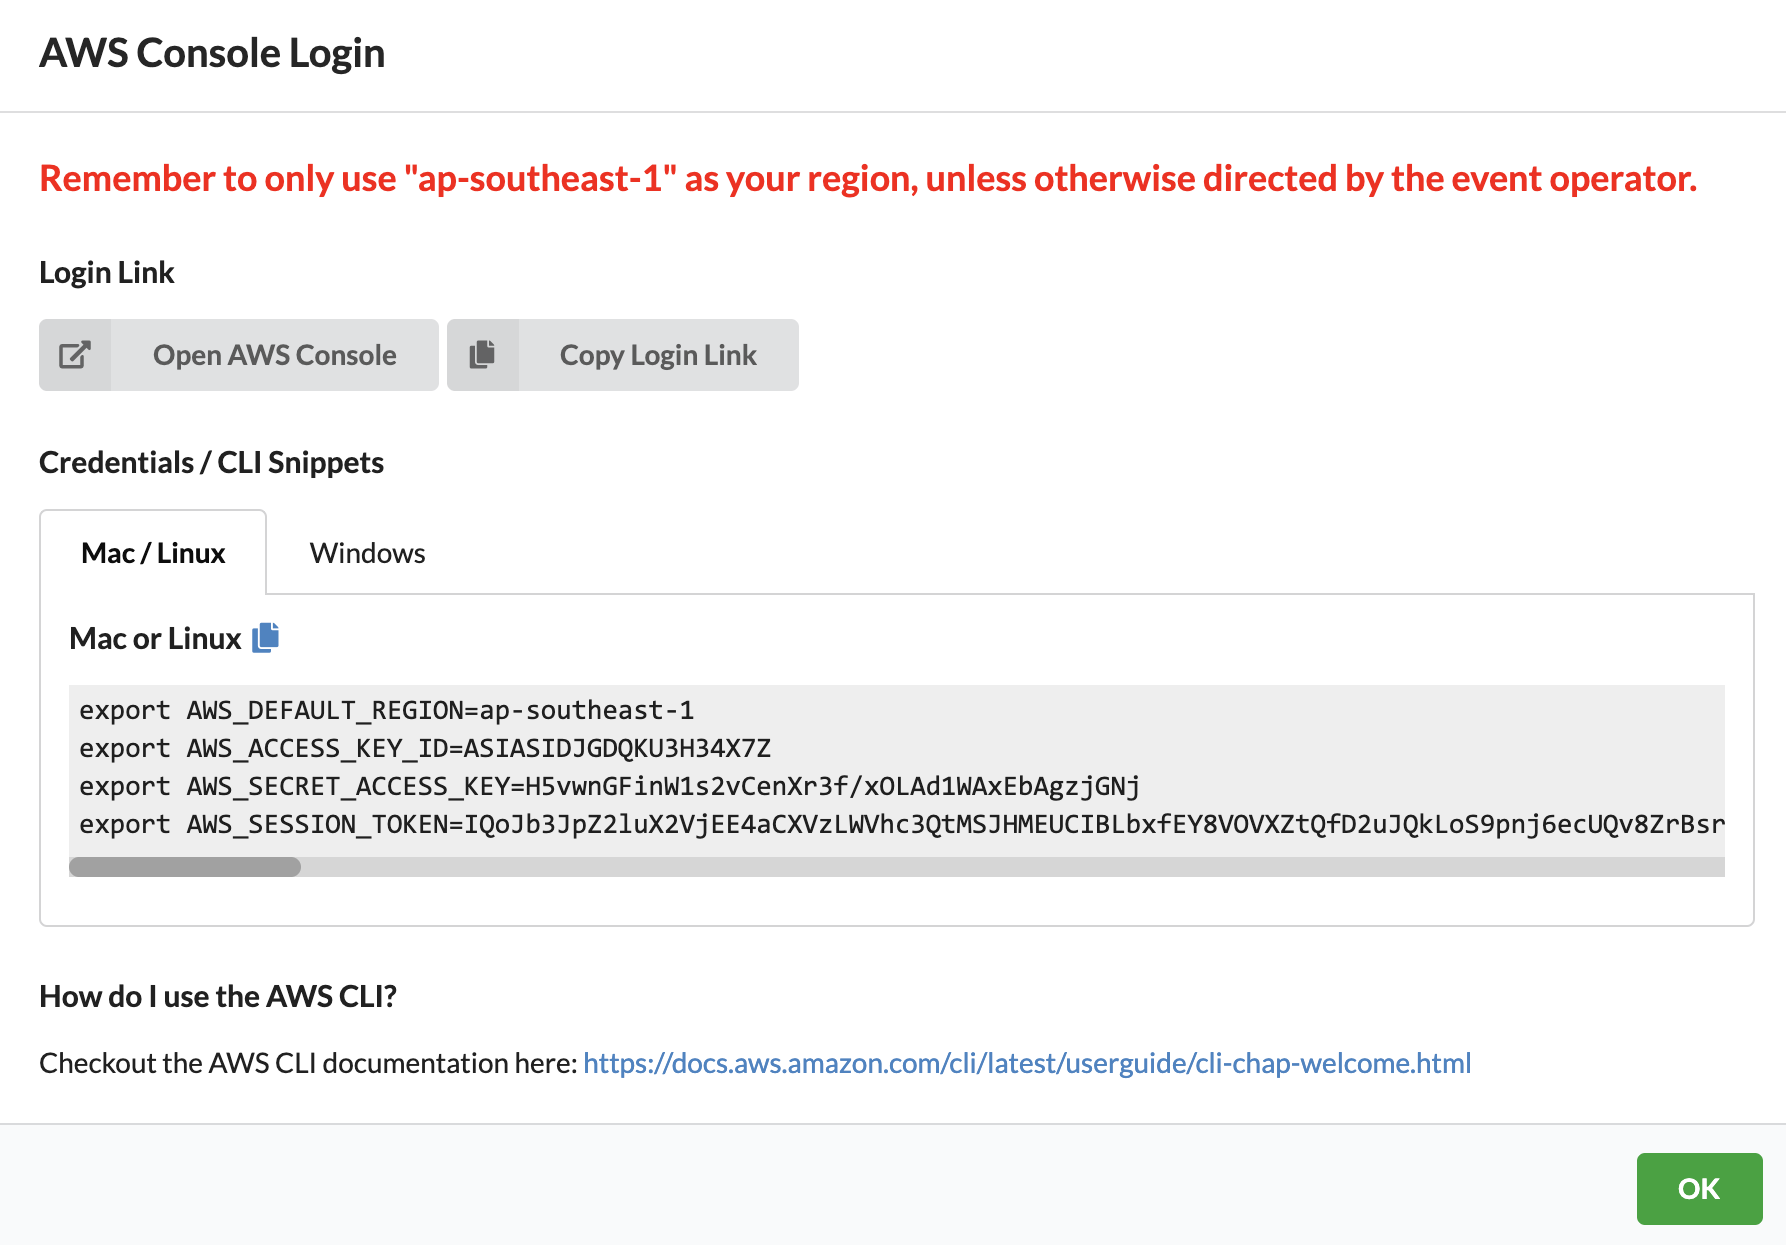
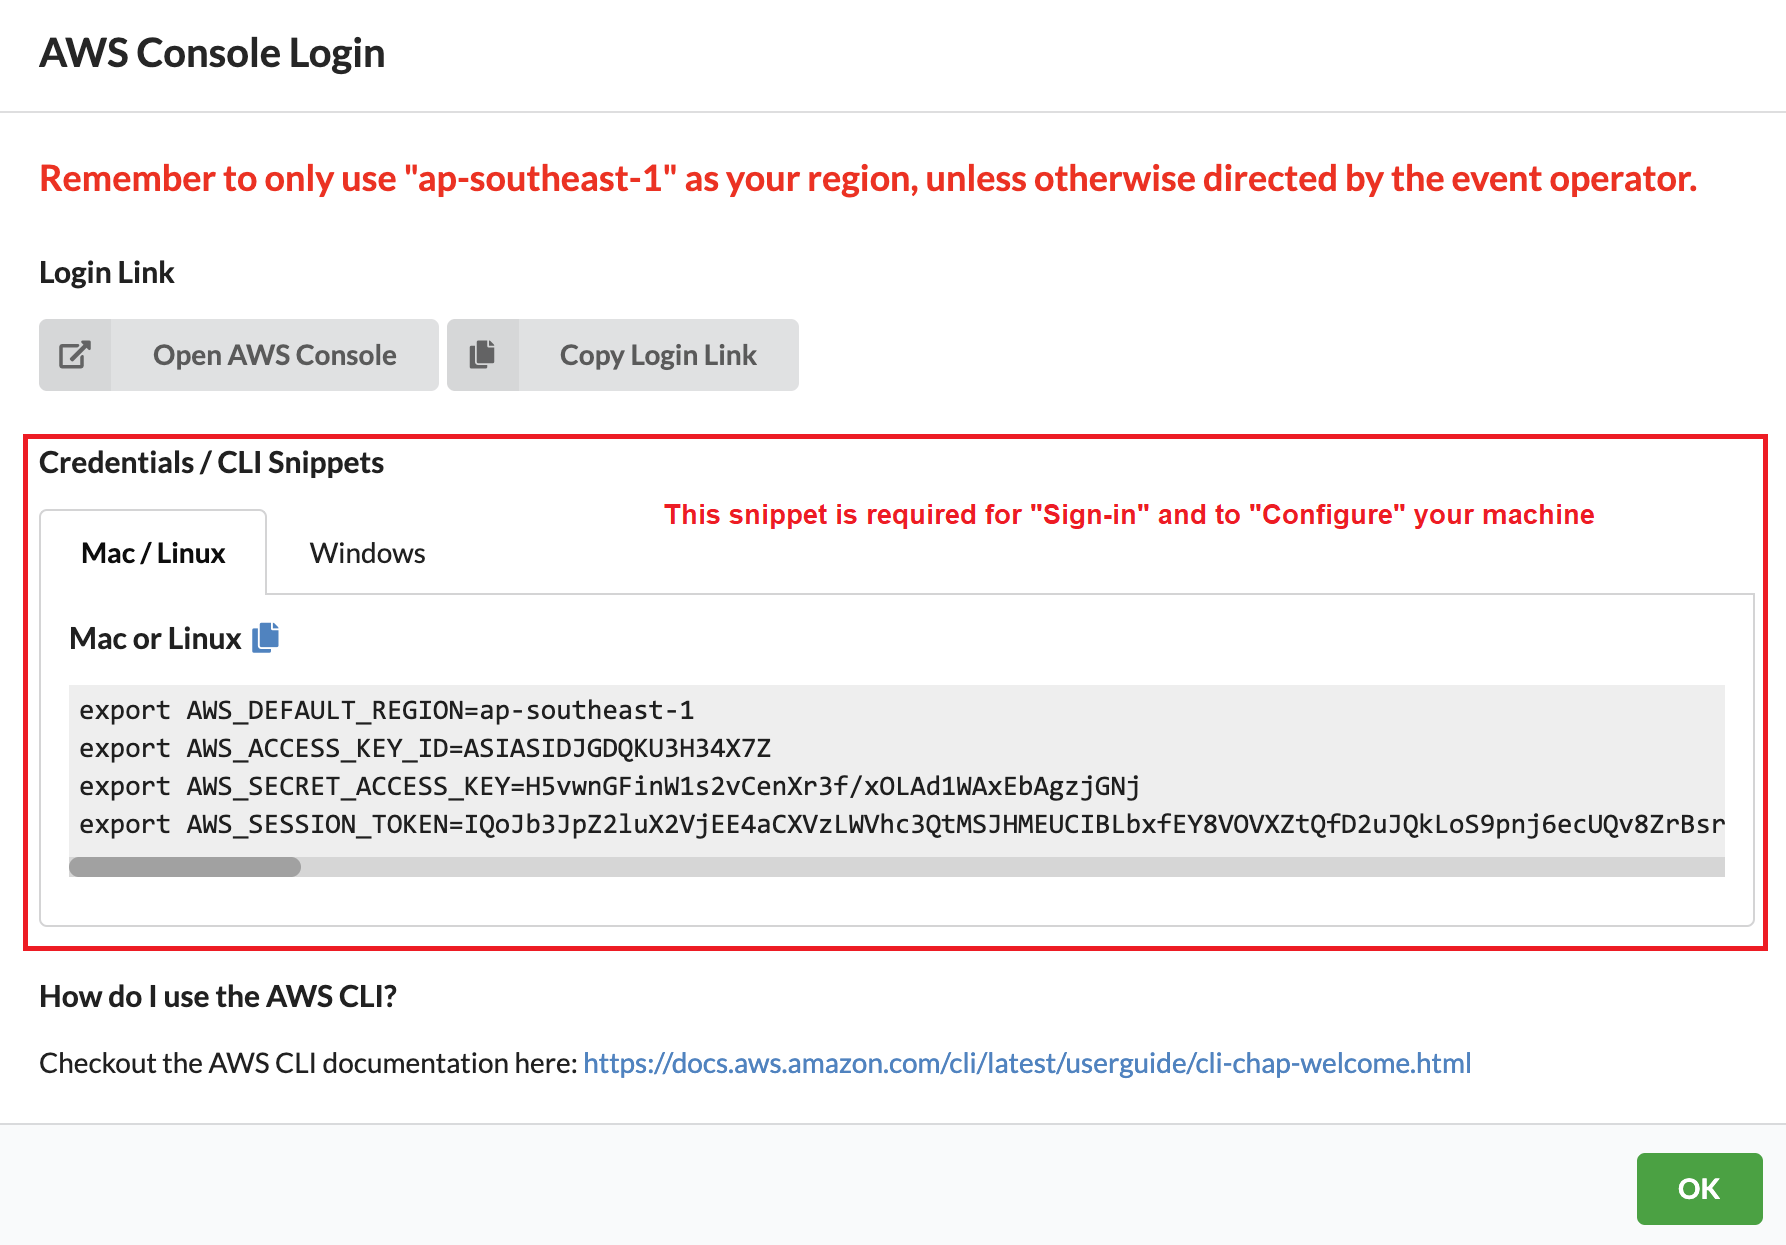
Edits/ Updates to website Sections I to V

Changed region(s): [[0.0, 0.3357, 1.0, 0.7631], [0.3695, 0.3968, 0.8931, 0.4273]]

diff --git a/websites/gis-aws/content/15-AWSCLI-intro/02-IntroToAWSCli.md b/websites/gis-aws/content/15-AWSCLI-intro/02-IntroToAWSCli.md
@@ -41,57 +41,3 @@ The above `describe-instances` and `describe-key-pairs` commands will likely fai
   
 As we have not yet configured the instance with the AWS account's credentials, the **~/.aws/** folder will not be available. Now let us go ahead with **aws configure**.
 
----   
-***AWS CONFIGURE (with Event Engine)***
-  
-_Important: if you are using Event Engine for this workshop, you can copy the code snippet with the temporary account's credentials from the Console page and paste it in your command line instead. This will be analogous to going through the manual setting up described in points 1-4 below (you can skip to point 5 directly)._
-
-![EE console](/images/hpc-aws-parallelcluster-workshop/EE_console_login.png)    
-
---- 
-***AWS CONFIGURE (GENERAL USE)***
-
-1.	Run the **aws configure** command
-
-```bash
-aws configure
-```
-
-2.	Enter your account's **aws access key id**
-
-```bash
-aws_access_key_id=[Access Key ID]
-```
-
-3.	Enter your account's **aws secret access key**
-
-```bash
-aws_secret_access_key=[Secret Access Key]
-```
-
-4.	Enter a **default region name**. For the purposes of this workshop, use _ap-southeast-1_ (the region for Singapore).
-
-```bash
-Default region name=ap-southeast-1
-```
-
-Hit enter to accept the defaults for **output format**
-
-
-5.	Let us rerun the ec2 **describe-instances** command again and check the output.
-
-```bash
-aws ec2 describe-instances
-```
-
-This gives a description of all the EC2 instances in the account for the specified region.
-
-6.	In addition, take a look at the key-pairs we have for the selected region.
-
-```bash
-aws ec2 describe-key-pairs
-```
-
-**Note:** This is a very brief introduction to AWS CLI. With great power comes great responsibility, so familiarise yourself and practice before using it to automate instances. Your wallet will thank you.  
-
-Next, you will use the AWS CLI to interact with Amazon S3.

diff --git a/websites/gis-aws/content/02-setup-EC2/02-eventengine.md b/websites/gis-aws/content/02-setup-EC2/02-eventengine.md
@@ -6,20 +6,16 @@ weight = 45
 tags = ["tutorial", "aws console", "ec2", "event engine"]
 +++
 
-You may access the AWS Management Console through Event Engine or through a traditional sign-in. This page will guide you through signing in via the Event Engine.  
-  
 Your instructor will provide you with a special team hash login. 
 Click the team hash login link. An email address will be requested for an OTP. This will help you access your temporary AWS account. When your sign in is successful, you will be taken to the **Team Dashboard**. 
   
 ![EE Team Dashboard](/images/hpc-aws-parallelcluster-workshop/EE_Dashboard.png)  
     
-Next, click on the **AWS Console** button.  
+Next, click on the **AWS Console** button.      
 
-This page is quite important.  
-  
-First, note the region that is specified in red. This will be the location of all your resources, and is the default region for this exercise.  
-  
-Next, note the credentials seen in the box titled **Credentials / CLI Snippets**. This will be important later when configuring your machine. Depending on your OS, click the correct tab and note the contents. 
+Note the following:    
+1. The region that is specified in red will be the location of all your resources, and is the default region for this exercise.  
+2. The credentials seen in the box titled **Credentials / CLI Snippets**. This will be important later when configuring your machine. Depending on your OS, click the correct tab and note the contents.  
   
 ![EE console](/images/hpc-aws-parallelcluster-workshop/EE_console_login.png)  
 If you ever need to access the **Team Dashboard** again during this training, click on the team hash login link again.  

diff --git a/websites/gis-aws/content/15-AWSCLI-intro/02-AWSconGEN.md b/websites/gis-aws/content/15-AWSCLI-intro/02-AWSconGEN.md
@@ -1,0 +1,52 @@
++++
+title = "AWS Configure - General Use"
+date = 2019-09-18T10:46:30-04:00
+draft = false
+weight = 60
+tags = ["tutorial", "Prerequisite", "ec2"]
++++
+
+1.	Run the **aws configure** command
+
+```bash
+aws configure
+```
+
+2.	Enter your account's **aws access key id**
+
+```bash
+aws_access_key_id=[Access Key ID]
+```
+
+3.	Enter your account's **aws secret access key**
+
+```bash
+aws_secret_access_key=[Secret Access Key]
+```
+
+4.	Enter a **default region name**. For the purposes of this workshop, use _ap-southeast-1_ (the region for Singapore).
+
+```bash
+Default region name=ap-southeast-1
+```
+
+Hit enter to accept the defaults for **output format**
+
+
+5.	Let us rerun the ec2 **describe-instances** command again and check the output.
+
+```bash
+aws ec2 describe-instances
+```
+
+This gives a description of all the EC2 instances in the account for the specified region.
+
+6.	In addition, take a look at the key-pairs we have for the selected region.
+
+```bash
+aws ec2 describe-key-pairs
+```
+
+**Note:** This is a very brief introduction to AWS CLI. With great power comes great responsibility, so familiarise yourself and practice before using it to automate instances. Your wallet will thank you.  
+
+Next, you will use the AWS CLI to interact with Amazon S3.

diff --git a/websites/gis-aws/content/02-setup-EC2/05-Create_keypair.md b/websites/gis-aws/content/02-setup-EC2/05-Create_keypair.md
@@ -35,6 +35,6 @@ In this section of the lab you will create a Linux instance and login to it to r
   
 ![ConsoleEC2AddTags](/images/hpc-aws-parallelcluster-workshop/ConsoleEC2AddTags.png)
   
-7.	The key pair you created should automatically download to your system.  Follow any browser instructions to save the file to the default download location.  Verify that the file has downloaded and you can locate it. Remember the full path to this .ppk/pem file you just downloaded. This file contains your private key for future SSH connections. 
+7.	The key pair you created should automatically download to your system.  Follow any browser instructions to save the file to the default download location.  Verify that the file has downloaded and you can locate it. Remember the full path to this **.ppk/pem** file you just downloaded. This file contains your private key for future SSH connections. 
   
 8.	You will see a message appear at the top of the screen that says **Successfully created key pair**.  You will see the key pair you created listed.

diff --git a/websites/gis-aws/content/04-AttachStorage/02-Preewquisites.md b/websites/gis-aws/content/04-AttachStorage/02-Preewquisites.md
@@ -18,9 +18,11 @@ tags = ["tutorial", "Prerequisite", "ec2"]
 
 4.	In the **Create Volume** page fill out the required size of the volume in GB, e.g. 10 GB or more depending on the data set size.
 
-**Important**: Make sure the **Availability Zone** is the same as the EC2 instance you are going to attach the volume to.
+**NOTE**: For the purposes of this lab 10 GB will suffice.   
 
-**NOTE**: For the purposes of this lab 10 GB will suffice.
+**Important**: Make sure the **Availability Zone** is the same as the EC2 instance you are going to attach the volume to.   
+
+![Copy Paste](/images/hpc-aws-parallelcluster-workshop/CreateVolumeAZ.png)
 
 ![Copy Paste](/images/hpc-aws-parallelcluster-workshop/CreateVolume.png)
 

diff --git a/websites/gis-aws/content/15-AWSCLI-intro/03-VerifyAWScredentials.md b/websites/gis-aws/content/15-AWSCLI-intro/03-VerifyAWScredentials.md
@@ -2,7 +2,7 @@
 title = "b. Verifying AWS credentials"
 date = 2021-06-22T10:46:30-04:00
 draft = false
-weight = 50
+weight = 70
 tags = ["tutorial", "Prerequisite", "ec2"]
 +++
 
@@ -24,6 +24,8 @@ cat ~/.aws/credentials
 cat ~/.aws/config
 ```
 
+---
+---
 _IMPORTANT: If you are using Event Engine for this workshop, make sure to have the **AWS ACCESS KEY ID**, **AWS SECRET ACCESS KEY**, **AWS DEFAULT REGION** match the temporary account's credentials from the Console page on Event Engine. The **AWS SESSION TOKEN** is unique for each Event Engine session (this session token is NOT APPLICABLE for an original AWS account)._
 
 ![EE console](/images/hpc-aws-parallelcluster-workshop/EE_console_login.png) 

diff --git a/websites/gis-aws/content/15-AWSCLI-intro/02-AWSconEE.md b/websites/gis-aws/content/15-AWSCLI-intro/02-AWSconEE.md
@@ -1,0 +1,13 @@
++++
+title = "AWS Configure - Event Engine"
+date = 2019-09-18T10:46:30-04:00
+draft = false
+weight = 50
+tags = ["tutorial", "Prerequisite", "ec2"]
++++
+   
+_Important: if you are using Event Engine for this workshop, you can copy the code snippet with the temporary account's credentials from the Console page and paste it in your command line instead. This will be analogous to going through the manual setting up described in points 1-4 below (you can skip to point 5 directly)._
+
+![EE console](/images/hpc-aws-parallelcluster-workshop/EE_console_login.png)    
+
+

diff --git a/websites/gis-aws/content/02-setup-EC2/_index.md b/websites/gis-aws/content/02-setup-EC2/_index.md
@@ -16,6 +16,6 @@ This section covers:
 - Stopping and Terminating the Linux instance.  
 
 Proceed to page  
-***a.Sign in to Event Engine*** if you are joining this tutorial by live training and were provided with Event Engine credentials.  
+***a. Sign in to AWS Console (via Event Engine)*** if you are attending the live training and were provided with Event Engine credentials.  
 OR  
-***b. Sign in to AWS Console*** if you are going through this tutorial independently.  
+***b. Sign in to AWS Console (direct sign-in)*** if you are going through this tutorial independently.  

diff --git a/websites/gis-aws/content/03-EC2FromSharedAMI/04-aws-ec2-dashboard.md b/websites/gis-aws/content/03-EC2FromSharedAMI/04-aws-ec2-dashboard.md
@@ -6,9 +6,7 @@ tags = ["tutorial", "dashboard", "ParallelCluster"]
 
 1.	In the AWS Management Console search bar, type **EC2**.
 
-2.	Choose **EC2** to open the **EC2 Dashboard**. 
-
-Although instances are generally launched through scripts, they can also be launched directly from the EC2 Dashboard. 
+2.	Choose **EC2** to open the **EC2 Dashboard**.  
 
 Spend a few minutes familiarizing yourself with the layout of the dashboard:
 
